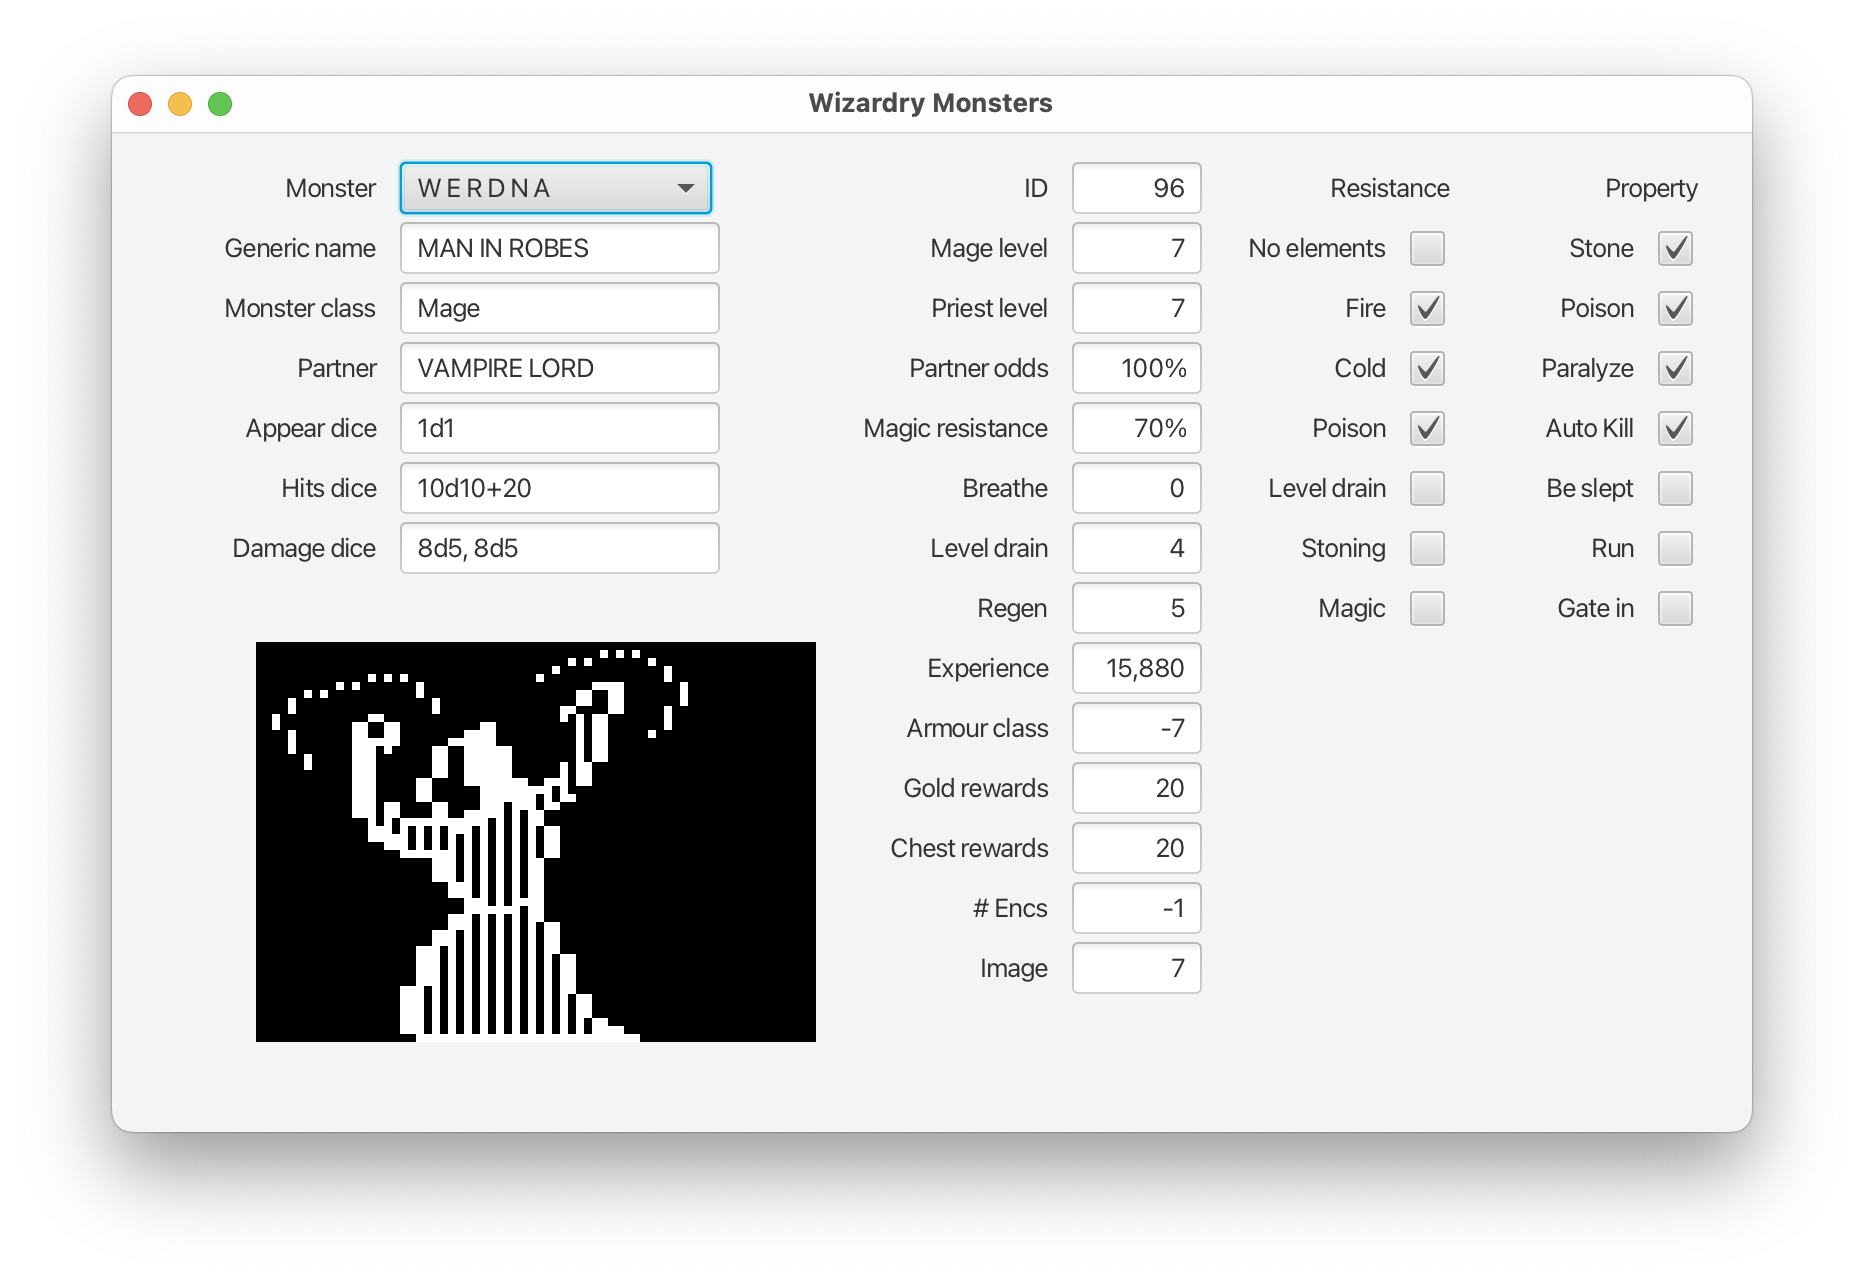
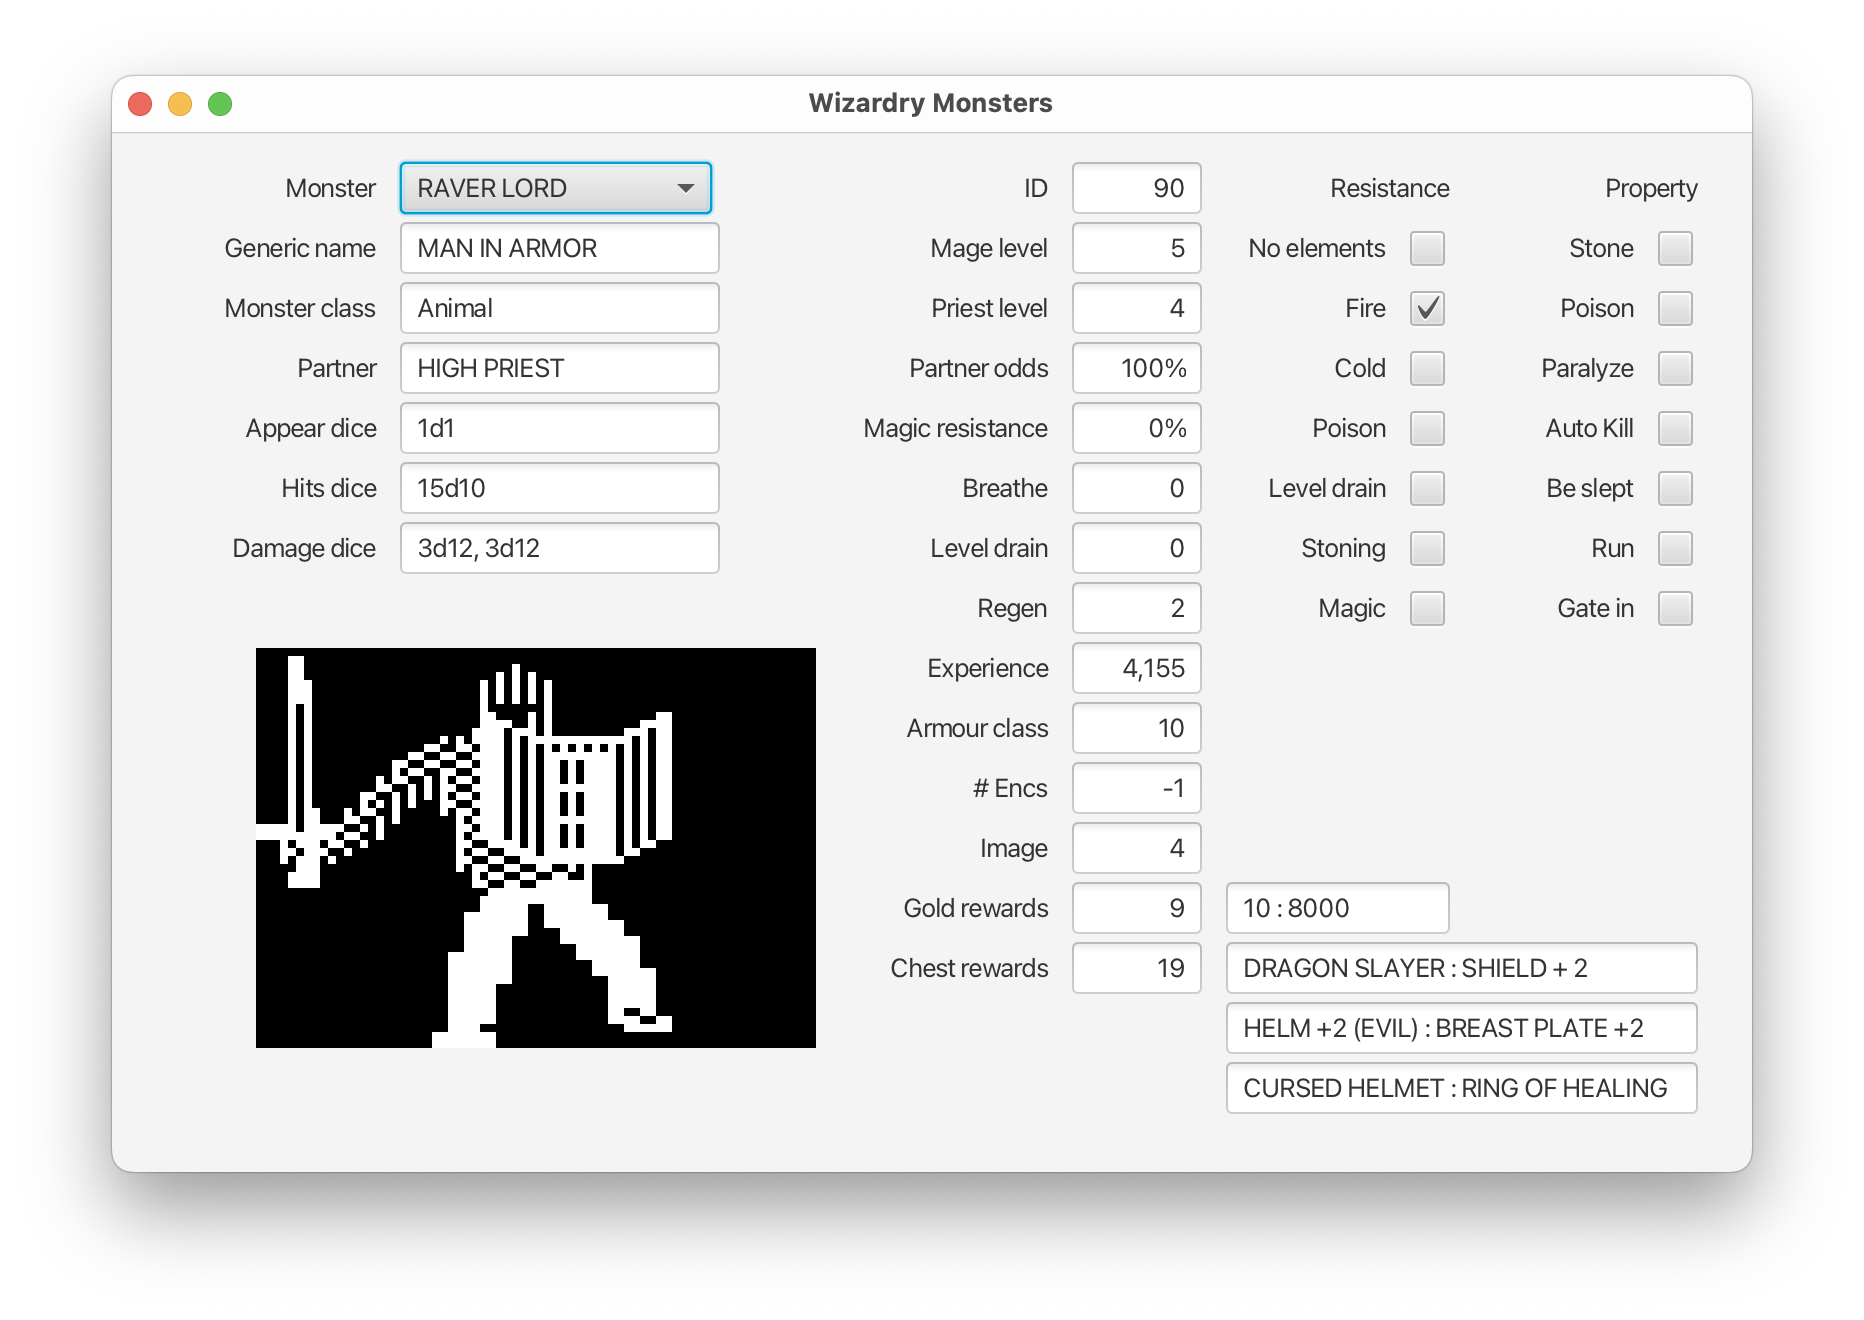
added rewards to monster window

diff --git a/src/com/bytezone/mazewalker/gui/MonstersPane.java b/src/com/bytezone/mazewalker/gui/MonstersPane.java
@@ -1,6 +1,7 @@
 package com.bytezone.mazewalker.gui;
 
 import com.bytezone.wizardry.origin.Monster;
+import com.bytezone.wizardry.origin.Reward;
 import com.bytezone.wizardry.origin.WizardryOrigin;
 
 import javafx.geometry.HPos;
@@ -33,10 +34,10 @@ public class MonstersPane extends BasePane
   private static final int REGEN = 7;
   private static final int TOTAL = 8;
   private static final int ARMOUR_CLASS = 9;
-  private static final int GOLD_REWARDS = 10;
-  private static final int CHEST_REWARDS = 11;
-  private static final int UNIQUE = 12;
-  private static final int IMAGE = 13;
+  private static final int UNIQUE = 10;
+  private static final int IMAGE = 11;
+  private static final int GOLD_REWARDS = 12;
+  private static final int CHEST_REWARDS = 13;
 
   // Scenario #1 values
   private static int[] experience = {                                     //
@@ -55,6 +56,9 @@ public class MonstersPane extends BasePane
 
   TextField[] textOut1;
   TextField[] textOut2;
+  TextField[] textOut3;
+  TextField[] textOut4;
+
   CheckBox[] checkBoxes1;
   CheckBox[] checkBoxes2;
 
@@ -86,8 +90,8 @@ public class MonstersPane extends BasePane
     String[] label1Text =
         { "Generic name", "Monster class", "Partner", "Appear dice", "Hits dice", "Damage dice" };
     String[] label2Text = { "ID", "Mage level", "Priest level", "Partner odds", "Magic resistance",
-        "Breathe", "Level drain", "Regen", "Experience", "Armour class", "Gold rewards",
-        "Chest rewards", "# Encs", "Image" };
+        "Breathe", "Level drain", "Regen", "Experience", "Armour class", "# Encs", "Image",
+        "Gold rewards", "Chest rewards" };
 
     LabelPlacement lp1 = new LabelPlacement (0, 1, HPos.RIGHT, 2);
     DataPlacement dp1 = new DataPlacement (2, 1, Pos.CENTER_LEFT, 1);
@@ -96,6 +100,9 @@ public class MonstersPane extends BasePane
     LabelPlacement lp2 = new LabelPlacement (4, 0, HPos.RIGHT, 1);
     DataPlacement dp2 = new DataPlacement (5, 0, Pos.CENTER_RIGHT, 1);
     textOut2 = createOutputFields (label2Text, lp2, dp2);
+
+    textOut3 = createOutputFields (1, new DataPlacement (6, 12, Pos.CENTER_LEFT, 2));
+    textOut4 = createOutputFields (3, new DataPlacement (6, 13, Pos.CENTER_LEFT, 4));
 
     // resistance
     setLabel ("Resistance", 6, 0, HPos.RIGHT, 2);
@@ -127,10 +134,36 @@ public class MonstersPane extends BasePane
     setText (textOut2[REGEN], monster.healPts);
     setText (textOut2[TOTAL], scenarioId == 1 ? experience[monster.id] : monster.expamt);
     setText (textOut2[ARMOUR_CLASS], monster.armourClass);
-    setText (textOut2[GOLD_REWARDS], monster.reward1);
-    setText (textOut2[CHEST_REWARDS], monster.reward2);
     setText (textOut2[UNIQUE], monster.unique);
     setText (textOut2[IMAGE], monster.image);
+    setText (textOut2[GOLD_REWARDS], monster.reward1);
+    setText (textOut2[CHEST_REWARDS], monster.reward2);
+
+    setText (textOut3[0], wizardry.getRewards ().get (monster.reward1).goldRange ());
+
+    for (int i = 0; i < 3; i++)
+    {
+      Reward reward = wizardry.getRewards ().get (monster.reward2);
+      String itemRange = reward.itemRange (i);
+      if (itemRange.isEmpty ())
+        setText (textOut4[i], "");
+      else
+      {
+        int pos = itemRange.indexOf (':');
+        int item1 = Integer.parseInt (itemRange.substring (0, pos - 1));
+        int item2 = Integer.parseInt (itemRange.substring (pos + 2));
+
+        if (item1 == item2)
+          setText (textOut4[i], wizardry.getItems ().get (item1));
+        else
+        {
+          String itemName1 = wizardry.getItems ().get (item1).name;
+          String itemName2 = wizardry.getItems ().get (item2).name;
+          setText (textOut4[i], itemName1 + " : " + itemName2);
+        }
+        //        }
+      }
+    }
 
     int resistance = monster.flags1;
     for (int i = 0; i < WizardryOrigin.resistance.length; i++)

diff --git a/src/com/bytezone/wizardry/origin/Reward.java b/src/com/bytezone/wizardry/origin/Reward.java
@@ -29,6 +29,34 @@ public class Reward
   }
 
   // ---------------------------------------------------------------------------------//
+  public String goldRange ()
+  // ---------------------------------------------------------------------------------//
+  {
+    if (rewardDetails[0].goldReward != null)
+    {
+      return rewardDetails[0].goldReward.getRange ();
+    }
+    return "";
+  }
+
+  // ---------------------------------------------------------------------------------//
+  public String itemRange (int index)
+  // ---------------------------------------------------------------------------------//
+  {
+    int count = 0;
+    for (int i = 0; i < total; i++)
+    {
+      if (rewardDetails[i].itemReward != null)
+      {
+        if (count++ == index)
+          return rewardDetails[i].itemReward.getMin () + " : "
+              + rewardDetails[i].itemReward.getMax ();
+      }
+    }
+    return "";
+  }
+
+  // ---------------------------------------------------------------------------------//
   @Override
   public String toString ()
   // ---------------------------------------------------------------------------------//

diff --git a/src/com/bytezone/wizardry/origin/RewardDetails.java b/src/com/bytezone/wizardry/origin/RewardDetails.java
@@ -75,12 +75,22 @@ public class RewardDetails
     {
       return dice1.max () * base * dice2.max ();
     }
+
+    public String getRange ()
+    {
+      return getMin () + " : " + getMax ();
+    }
   }
 
   // ---------------------------------------------------------------------------------//
   public record ItemReward (int item, int size, int max, int element, int odds)
   // ---------------------------------------------------------------------------------//
   {
+    public int getMin ()
+    {
+      return item;
+    }
+
     public int getMax ()
     {
       return item + size * max + element;

diff --git a/src/com/bytezone/mazewalker/gui/MazeWalker.java b/src/com/bytezone/mazewalker/gui/MazeWalker.java
@@ -247,7 +247,7 @@ public class MazeWalker extends AppBase implements MovementListener
     monstersStage.setTitle ("Wizardry Monsters");
     MonstersPane monstersPane = new MonstersPane (wizardry, monstersStage);
 
-    Scene scene = new Scene (monstersPane, 820, 500);         // wh
+    Scene scene = new Scene (monstersPane, 820, 520);         // wh
     monstersStage.setScene (scene);
     scene.setOnKeyPressed (e -> monstersPane.keyPressed (e));
   }

diff --git a/src/com/bytezone/wizardry/origin/EnemyCalc.java b/src/com/bytezone/wizardry/origin/EnemyCalc.java
@@ -19,8 +19,6 @@ public class EnemyCalc
     worse01 = Utility.getShort (buffer, offset + 4);
     range0n = Utility.getShort (buffer, offset + 6);
     percWors = Utility.getShort (buffer, offset + 8);
-
-    //    System.out.println (HexFormatter.format (buffer, offset, 10, false, offset));
   }
 
   // ---------------------------------------------------------------------------------//
